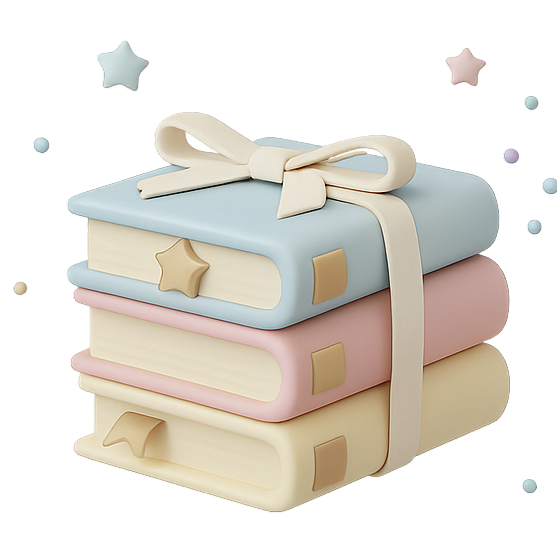
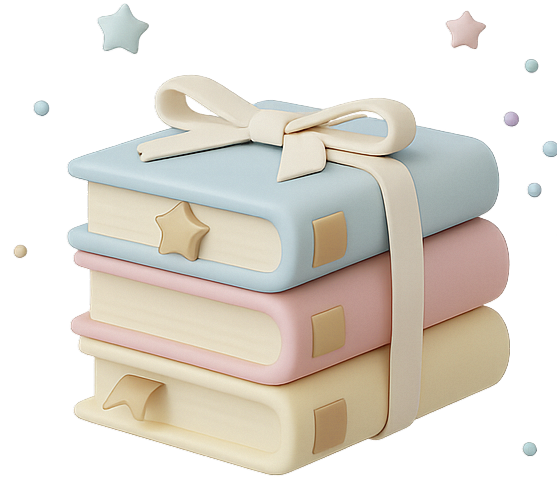
내 통계 카드 아이콘 크기 확대

diff --git a/android/app/src/main/assets/public/index.html b/android/app/src/main/assets/public/index.html
@@ -1,1 +1,1 @@
-<!doctype html><html lang="ko"><head><meta charset="utf-8"/><link rel="icon" href="/favicon.ico"/><meta name="viewport" content="width=device-width,initial-scale=1"/><meta name="theme-color" content="#000000"/><meta name="description" content="스토리포션"/><link rel="apple-touch-icon" href="/logo192.png"/><link href="https://fonts.googleapis.com/css2?family=Roboto+Serif:wght@700&family=Source+Sans+Pro:wght@400;600&display=swap" rel="stylesheet"><title>스토리포션</title><link href="https://fonts.googleapis.com/css2?family=Island+Moments&family=Instrument+Sans:wght@400;500;600;700&family=Plus+Jakarta+Sans:wght@400;500;600;700&family=Source+Sans+Pro:wght@400;600;700&display=swap" rel="stylesheet"><link rel="stylesheet" charset="UTF-8" href="https://cdnjs.cloudflare.com/ajax/libs/slick-carousel/1.6.0/slick.min.css"/><link rel="stylesheet" href="https://cdnjs.cloudflare.com/ajax/libs/slick-carousel/1.6.0/slick-theme.min.css"/><link href="https://fonts.googleapis.com/css2?family=Barlow+Condensed:wght@700&display=swap" rel="stylesheet"><link rel="stylesheet" href="https://cdn.jsdelivr.net/gh/webfontworld/binggrae/Binggrae.css"><link rel="stylesheet" href="https://cdn.jsdelivr.net/gh/webfontworld/seoul/SeoulHangang.css"><link href="https://fonts.googleapis.com/css2?family=Nanum+Gothic:wght@400;700;800&display=swap" rel="stylesheet"><style>*{margin:0;padding:0;box-sizing:border-box}html{-webkit-text-size-adjust:100%;-moz-text-size-adjust:100%;-ms-text-size-adjust:100%;text-size-adjust:100%}body{font-family:'Instrument Sans',sans-serif;-webkit-text-size-adjust:100%;-moz-text-size-adjust:100%;-ms-text-size-adjust:100%;text-size-adjust:100%}@font-face{font-family:SeoulHangang;src:url('/fonts/08SeoulHangangL.ttf') format('truetype');font-weight:400;font-style:normal}@font-face{font-family:Cinema;src:url('/fonts/a시네마L.ttf') format('truetype');font-weight:400;font-style:normal}@font-face{font-family:MomLetter;src:url('/fonts/a엄마의편지L.ttf') format('truetype');font-weight:400;font-style:normal}@font-face{font-family:HumanBeomseokNeo;src:url('/fonts/Human-BeomseokNeo-Regular.ttf') format('truetype');font-weight:400;font-style:normal;font-display:swap}@font-face{font-family:Adultkid;src:url('/fonts/Adultkid.ttf') format('truetype');font-weight:400;font-style:normal;font-display:swap}@font-face{font-family:Sagak-sagak;src:url('/fonts/Sagak-sagak.ttf') format('truetype');font-weight:400;font-style:normal;font-display:swap}</style><script defer="defer" src="/static/js/main.d6e36e19.js"></script><link href="/static/css/main.84aff677.css" rel="stylesheet"></head><body><noscript>You need to enable JavaScript to run this app.</noscript><div id="root"></div><script src="/bundle.js"></script></body></html>
+<!doctype html><html lang="ko"><head><meta charset="utf-8"/><link rel="icon" href="/favicon.ico"/><meta name="viewport" content="width=device-width,initial-scale=1"/><meta name="theme-color" content="#000000"/><meta name="description" content="스토리포션"/><link rel="apple-touch-icon" href="/logo192.png"/><link href="https://fonts.googleapis.com/css2?family=Roboto+Serif:wght@700&family=Source+Sans+Pro:wght@400;600&display=swap" rel="stylesheet"><title>스토리포션</title><link href="https://fonts.googleapis.com/css2?family=Island+Moments&family=Instrument+Sans:wght@400;500;600;700&family=Plus+Jakarta+Sans:wght@400;500;600;700&family=Source+Sans+Pro:wght@400;600;700&display=swap" rel="stylesheet"><link rel="stylesheet" charset="UTF-8" href="https://cdnjs.cloudflare.com/ajax/libs/slick-carousel/1.6.0/slick.min.css"/><link rel="stylesheet" href="https://cdnjs.cloudflare.com/ajax/libs/slick-carousel/1.6.0/slick-theme.min.css"/><link href="https://fonts.googleapis.com/css2?family=Barlow+Condensed:wght@700&display=swap" rel="stylesheet"><link rel="stylesheet" href="https://cdn.jsdelivr.net/gh/webfontworld/binggrae/Binggrae.css"><link rel="stylesheet" href="https://cdn.jsdelivr.net/gh/webfontworld/seoul/SeoulHangang.css"><link href="https://fonts.googleapis.com/css2?family=Nanum+Gothic:wght@400;700;800&display=swap" rel="stylesheet"><style>*{margin:0;padding:0;box-sizing:border-box}html{-webkit-text-size-adjust:100%;-moz-text-size-adjust:100%;-ms-text-size-adjust:100%;text-size-adjust:100%}body{font-family:'Instrument Sans',sans-serif;-webkit-text-size-adjust:100%;-moz-text-size-adjust:100%;-ms-text-size-adjust:100%;text-size-adjust:100%}@font-face{font-family:SeoulHangang;src:url('/fonts/08SeoulHangangL.ttf') format('truetype');font-weight:400;font-style:normal}@font-face{font-family:Cinema;src:url('/fonts/a시네마L.ttf') format('truetype');font-weight:400;font-style:normal}@font-face{font-family:MomLetter;src:url('/fonts/a엄마의편지L.ttf') format('truetype');font-weight:400;font-style:normal}@font-face{font-family:HumanBeomseokNeo;src:url('/fonts/Human-BeomseokNeo-Regular.ttf') format('truetype');font-weight:400;font-style:normal;font-display:swap}@font-face{font-family:Adultkid;src:url('/fonts/Adultkid.ttf') format('truetype');font-weight:400;font-style:normal;font-display:swap}@font-face{font-family:Sagak-sagak;src:url('/fonts/Sagak-sagak.ttf') format('truetype');font-weight:400;font-style:normal;font-display:swap}</style><script defer="defer" src="/static/js/main.b7b63937.js"></script><link href="/static/css/main.84aff677.css" rel="stylesheet"></head><body><noscript>You need to enable JavaScript to run this app.</noscript><div id="root"></div><script src="/bundle.js"></script></body></html>

diff --git a/src/pages/mypage/Statistics.js b/src/pages/mypage/Statistics.js
@@ -58,12 +58,12 @@ const StatCard = styled.div`
   }
 `;
 const StatImage = styled.img`
-  width: 48px;
-  height: 48px;
+  width: 64px;
+  height: 64px;
   border-radius: 0;
   object-fit: contain;
   background: transparent;
-  margin-bottom: 12px;
+  margin-bottom: 8px;
 `;
 const StatLabel = styled.div`
   font-weight: 700;
